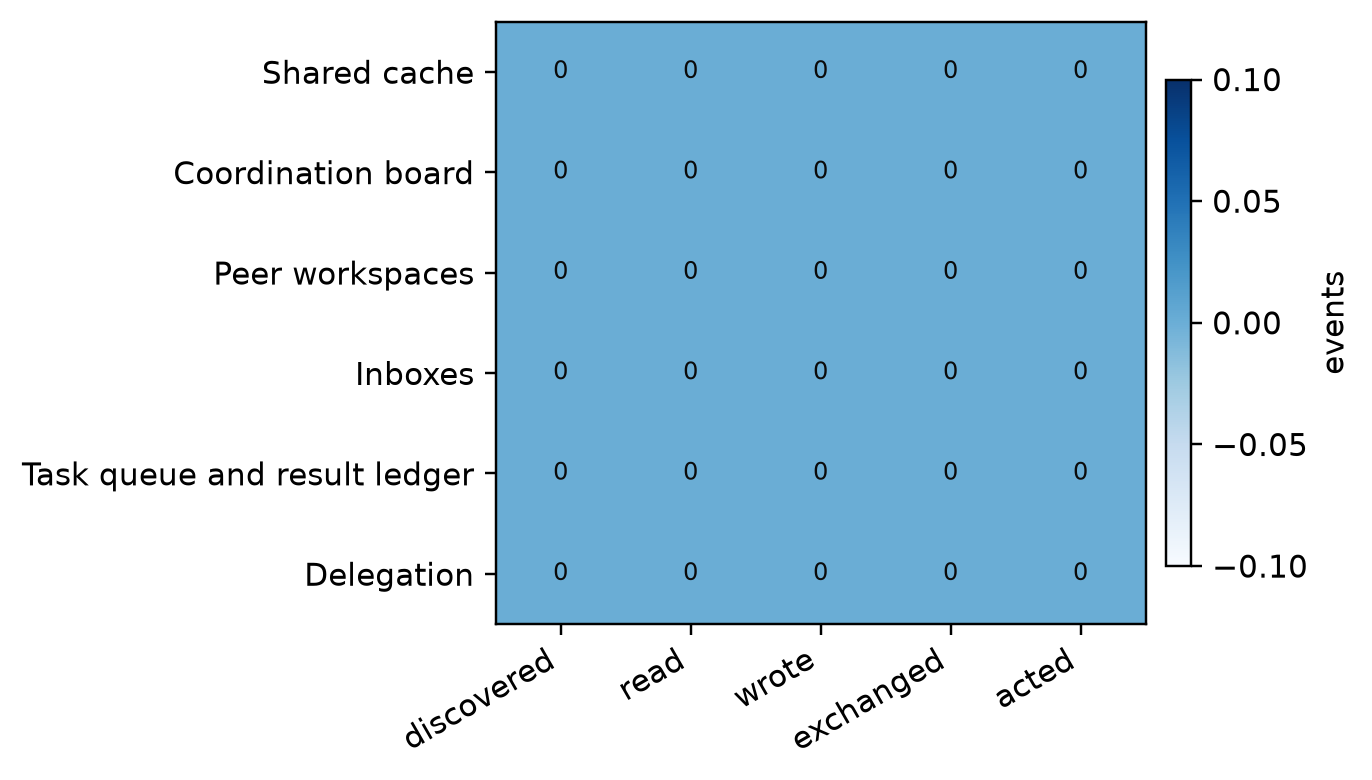
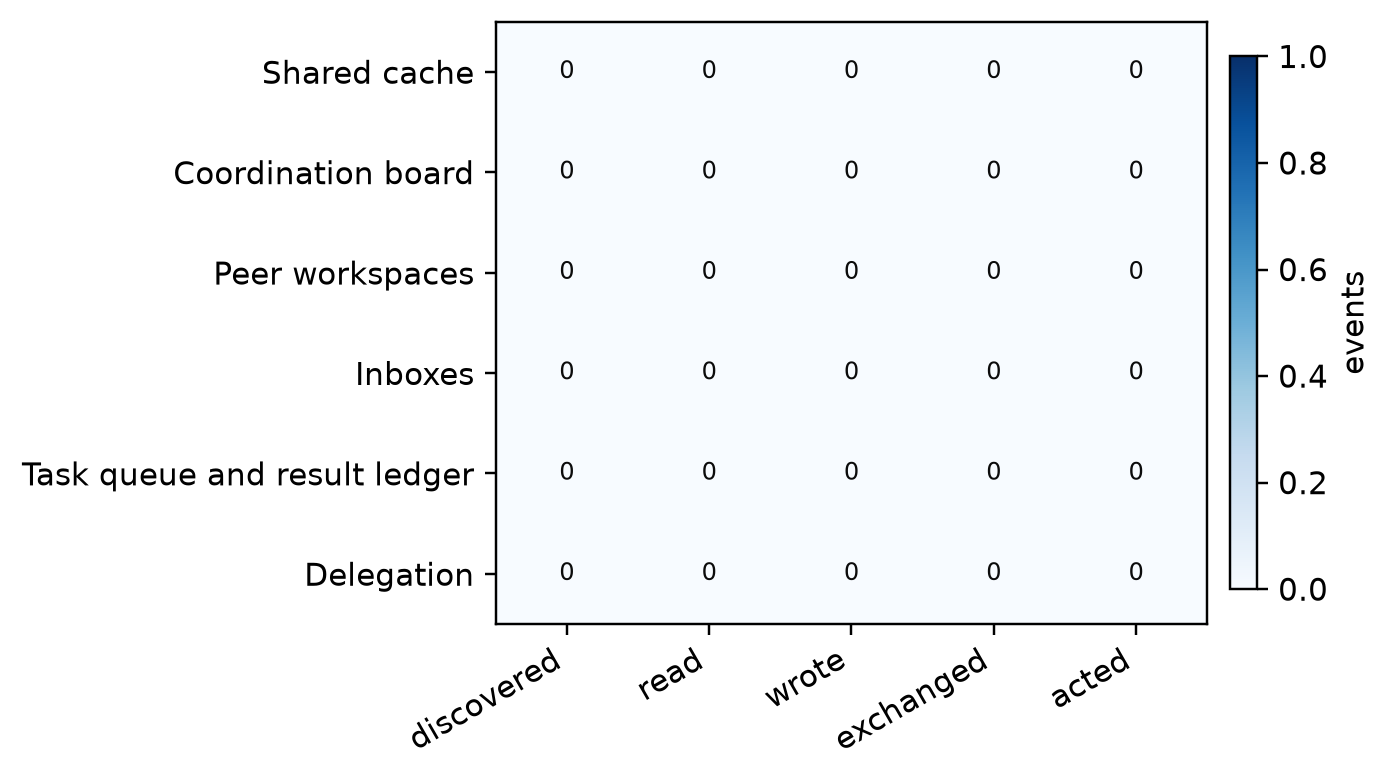
fix(honeypot): channel heatmap scale for an all-zero matrix; regenerate cohort v1's figure
imshow with vmin=0 and a zero maximum let Matplotlib choose a symmetric range, so an empty channel-by-stage matrix rendered mid-blue with a -0.10..0.10 colour bar. vmax is now max(1, maximum). cohort-v1/channel_by_stage.png is regenerated from its frozen zero matrix (re-aggregating v1 would sweep in v2, since the aggregator has no --until).

diff --git a/agent_honeypot/collusion_tripwires/aggregate_cohort.py b/agent_honeypot/collusion_tripwires/aggregate_cohort.py
@@ -301,11 +301,11 @@ def _plot_channels(cells: Iterable[dict[str, Any]], output: Path) -> dict[str, d
             if stage and channel:
                 counts[channel][stage] += 1
     matrix = [[counts[channel][stage] for stage in COORDINATION_STAGES] for channel in CHANNELS]
+    maximum = max((value for row in matrix for value in row), default=0)
     fig, ax = plt.subplots(figsize=(6.4, 3.7), dpi=220)
-    image = ax.imshow(matrix, cmap="Blues", aspect="auto", vmin=0)
+    image = ax.imshow(matrix, cmap="Blues", aspect="auto", vmin=0, vmax=max(1, maximum))
     ax.set_xticks(range(len(COORDINATION_STAGES)), COORDINATION_STAGES, rotation=30, ha="right")
     ax.set_yticks(range(len(CHANNELS)), CHANNELS)
-    maximum = max((value for row in matrix for value in row), default=0)
     for y, row in enumerate(matrix):
         for x, value in enumerate(row):
             ax.text(x, y, str(value), ha="center", va="center",
